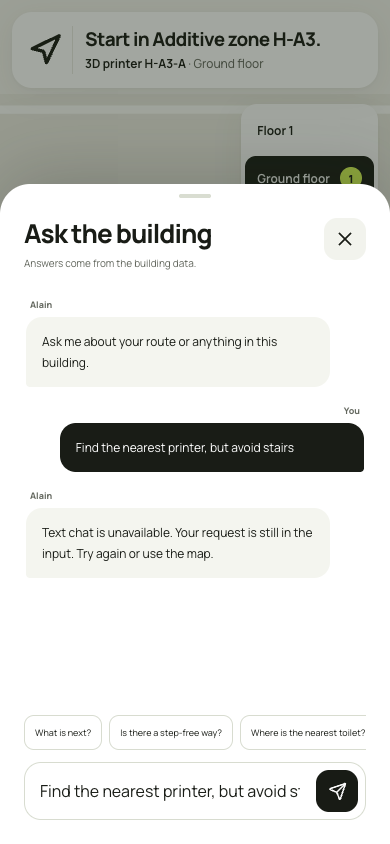
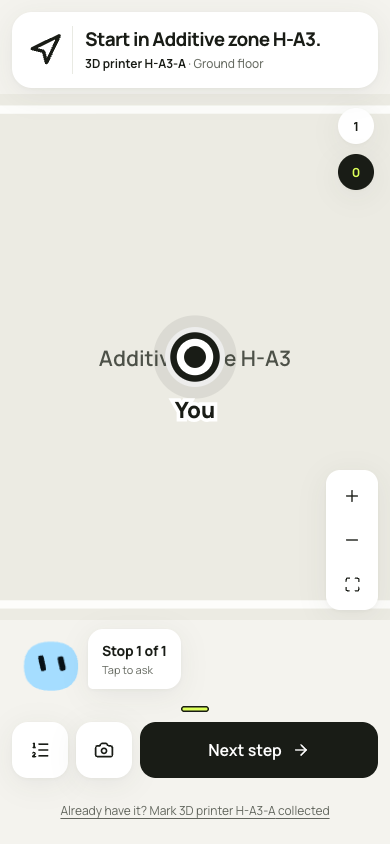
agent: align canonical contract and integration evidence

diff --git a/server/app.py b/server/app.py
@@ -94,7 +94,7 @@ def create_app(settings: Settings | None = None) -> FastAPI:
             await task
         await application.state.hub.close()
 
-    application = FastAPI(title="Talk to Your Building", version="C9", lifespan=lifespan)
+    application = FastAPI(title="Talk to Your Building", version="C10", lifespan=lifespan)
     application.state.settings = settings
     application.state.catalog = catalog
     application.state.store = StateStore(settings.state_dir,

diff --git a/master prompt/CONTRACTS.md b/master prompt/CONTRACTS.md
@@ -2,7 +2,7 @@
 
 This file is the single canonical place for shared interfaces. Builder prompts link here and do not copy the details. If a prompt and this file disagree, this file wins. To change a section, use the change-request protocol in [OWNERSHIP_AND_DEPENDENCIES.md](OWNERSHIP_AND_DEPENDENCIES.md#6-change-request-protocol). Only the section owner edits a section, and the owner appends one line to the [contract changelog](#16-contract-changelog).
 
-Contract version: **C9** (24 Oct 2026; reset-safe HTTP building-state identity; C2–C8 definitions preserved). Section owners:
+Contract version: **C10** (25 Oct 2026; user-approved common LLM agent, guarded tool transport and submission mode; C2–C9 platform behavior preserved). Section owners:
 
 | § | Section | Owner | Main consumers |
 |---|---|---|---|
@@ -69,7 +69,7 @@ Contract version: **C9** (24 Oct 2026; reset-safe HTTP building-state identity; 
 - `step_free` drops every stair connector and every opening with `step_free: false` (kit rule). Lifts stay.
 - `min_door_width_m` drops every opening narrower than the value (an opening exactly as wide passes).
 - `closed` lists connector, opening or space IDs; they cannot be used at all. Session/building closures are merged with request closures.
-- `no_transit_room_types` is implemented in core but **not used by any demo or benchmark path** (forklift and production-bay semantics are unconfirmed; see the decision register D-19).
+- `no_transit_room_types` prevents routes through the listed room types. A restricted room can still be the start or destination of a route leg. Shared agent queries and supplied benchmark constraints preserve this rule; they do not globally exempt a room type. Forklift-specific semantics remain unconfirmed (D-19).
 - **A wheelchair profile never silently becomes a stairs route.** If no step-free route exists, the result is `reachable: false` with a reason. The UI and agent say so and may offer, as a separate explicit option, the route with stairs.
 
 ## 4. Core Python API
@@ -81,7 +81,8 @@ from core.building import Building, load_building          # Building wraps star
 b = load_building(Path("data/dev/proc-factory-dev-003"))   # or load_building(dict); b.id, b.content_hash, b.version (0)
 
 from core.spatial import solve                             # benchmark solvers, ported from the sibling core (D-03)
-solve(b, kind: str, inputs: dict) -> dict                  # kinds: the 9 benchmark kinds plus locate, count, route, route_step_free, route_with_closure, tour
+solve(b, kind: str, inputs: dict, *, constraints: dict | None = None) -> dict
+                                                           # kinds: the 9 benchmark kinds plus locate, count, route, route_step_free, route_with_closure, tour
                                                            # inputs use exactly the field names of the kit `inputs` (README §4, train/dev files)
 
 from core.resolve import resolve
@@ -236,7 +237,10 @@ FastAPI service, one process (owner Manuel's codex). All JSON. `/api`, `/ws` and
 | `POST /api/buildings` | `building.json` body (admin) | `{"building_id", "validation": <validate_building report>}`; 422 if invalid |
 | `POST /api/buildings/{id}/plan-import` | multipart PNG/SVG + `floor_level` (admin, X5 only) | draft + validation, §6-style preview; nothing saved until confirmed |
 | `GET /api/buildings/{id}/events` | `?since=` | `[event]` |
-| `POST /api/tools/{name}` | `{"session_id", "args": {...}}` | ToolResponse §8 |
+| `POST /api/tools/{name}` | `{"session_id", "args": {...}}` | manual application controls; ToolResponse §8; not model transport |
+| `POST /api/agent/turns` | `{"session_id", "message"}` | `{"turn_id"}`; register a real user voice/typed turn |
+| `GET /api/agent/tools` | `?session_id=` | role-filtered tool definitions |
+| `POST /api/agent/tools/{name}` | `{"session_id", "turn_id", "args": {...}}` | ToolResponse §8 after current-turn and confirmation checks |
 | `POST /api/sessions` | `{"building_id", "device": "desk|phone", "role": "navigator|admin", "profile": "walk"}` | session §10 |
 | `GET /api/sessions/{id}` / `PATCH /api/sessions/{id}` | position, profile, active tour | session |
 | `POST /api/tours` | `{"session_id", "start"?, "items": ["asset or space ids"], "keep_order": false, "end": null}` | TourResult with `tour_id` |
@@ -247,7 +251,7 @@ FastAPI service, one process (owner Manuel's codex). All JSON. `/api`, `/ws` and
 | `POST /api/buildings/{id}/markers` | `{"markers": [{"space_id", "point", "heading_deg", "label"}]}` (admin) | `[marker]` |
 | `GET /api/buildings/{id}/markers/sheet` | – | printable HTML with QR codes (URL form §10) |
 | `GET /api/voice/token` | `?agent=navigator|admin` | `{"token", "agent_id"}`; 503 `voice_unavailable` when no key; the API key never leaves the server |
-| `POST /api/chat` | `{"session_id", "message"}` | `{"reply", "tool_calls": [ToolResponse], "display": {...}}` |
+| `POST /api/chat` | `{"session_id", "message"}` | `{"reply", "tool_calls": [ToolResponse], "display", "status", "stop_reason", "usage", "cost_usd", "sources"}` |
 | `POST /api/demo/reset` | `{"building_id"}` (admin; demo mode) | archives the building's event log, restarts it at version 0 and broadcasts `building_reset`; never available outside demo mode |
 
 **Admin authentication (C8, CR-C-2):** `POST /api/sessions` with `role: "admin"` requires `X-Admin-Token` matching the private server `TYB_ADMIN_TOKEN`; comparison is constant-time. Missing/wrong codes return 403 `forbidden`. Navigator creation requires no code. With no configured code, admin creation is denied unless both `TYB_DEMO_MODE=true` and `TYB_ALLOW_UNAUTHENTICATED_DEMO_ADMIN=true` explicitly enable an isolated no-code local demo; a configured code is mandatory even in demo mode. The database stores a private session-bound HMAC authority proof, never the code. Legacy role-only admin sessions and proofs from a previous code are rejected; same-code restarts retain authority. Public session payloads omit authority data. Public event feeds, tour payloads, tool displays/results and WebSocket broadcasts omit session bearer IDs; internal storage keeps ownership for authorization and undo. The admin UI keeps its code and session ID in `sessionStorage`, sends the code only on admin-session creation, and asks again after revoked/expired authority. It never embeds it in a URL, build variable or source.
@@ -268,7 +272,9 @@ Types for TypeScript are generated from FastAPI's OpenAPI (`server/openapi.json`
 
 ## 8. Tool API and voice client tools
 
-**One tool registry** (`server/tools.py`, owner Manuel's codex) backs the HTTP tool endpoint, the text chat agent and the ElevenLabs client tools. Names and parameters below are frozen at C1. The ten tools from `docs/elevenlabs-agent-config.md` are unchanged; `spatial_query` is an addition.
+One tool registry (`server/tools.py`) backs manual controls and the text/voice agent tools. C10 has 17 tools for admin sessions and 11 for navigator sessions. Generated `server/agent-tools.json` is the complete list of names, argument schemas and roles. Regenerate it with `python -m server.export_openapi`; then run `bun run gen:api` in `web/app`. The human-owned ElevenLabs configuration describes an older hosted setup. Local changes do not deploy it.
+
+Text chat and benchmark submission use `agent.core.BuildingAgent`, the same prompt recipes, configured model, platform registry, execution policy and `AgentLoop`. The default is Sonnet with at most 24 model requests, 128 attempted tool calls and 90 seconds. `TYB_AGENT_*` settings can change these limits. Voice keeps the hosted ElevenLabs model loop and shares server tool execution. See `agent/README.md` for configuration and limits.
 
 **ToolResponse:**
 
@@ -279,7 +285,8 @@ Types for TypeScript are generated from FastAPI's OpenAPI (`server/openapi.json`
   "result": {"tour_id": "k3j9q2m7xa", "order": ["s1", "s2"], "length_m": 112.6},
   "speech": "Three parts in two stops, about 113 metres. First the tool crib, then the store upstairs.",
   "display": {"kind": "tour", "tour_id": "k3j9q2m7xa"},
-  "trace": [{"fn": "resolve", "args": {"text": "torque wrench"}, "ms": 2}, {"fn": "plan_tour", "args": {"stops": 2}, "ms": 41}]
+  "trace": [],
+  "model_result": {"ok": true, "tool": "plan_tour", "request_id": "req_ab12cd34ef56", "result": {"tour_id": "k3j9q2m7xa", "length_m": 112.6}}
 }
 ```
 
@@ -288,10 +295,16 @@ Failure: `{"ok": false, "tool", "request_id", "building_version", "error": {"cod
 | Agent | Tool | Arguments | Behaviour |
 |---|---|---|---|
 | navigator | `find` | `query` (string, required) | resolve over assets and spaces; unique → highlight and `speech` with place; ambiguous → candidates for one clarifying question; none → says so |
-| navigator | `plan_tour` | `items` (comma-separated string, required), `keep_order` (bool), `step_free` (bool) | resolves each item (ambiguous item → error with candidates, nothing planned), plans from the session position, creates a tour, returns `tour_id` |
+| navigator | `building_info` | none | floors, types, counts, position and current constraints |
+| navigator | `search_entities` | `kind`, `query`, `type`, `floor_id`, `space_id`, `limit`, `cursor` | paged discovery; default 25, maximum 100 results; cursor is bound to filters and building state |
+| navigator | `get_entities` | `ids` (1–100 stable IDs) | details in request order; unknown IDs fail explicitly |
+| navigator | `compare_routes` | `destination_ids`, optional `start`, `step_free`, `min_door_width_m`, `closed` | rank actual reachable routes and report unreachable candidates; no navigation changes |
+| navigator | `query_route` | `destination`, optional `start`, `step_free`, `min_door_width_m`, `closed` | pure route calculation; explicit start overrides session position; unreachable is a normal result |
+| navigator | `query_tour` | `items`, optional `start`, `end`, `keep_order`, `step_free`, `min_door_width_m`, `closed` | pure multi-stop calculation; reports partial or blocked stops; no active tour is saved |
+| navigator | `plan_tour` | `items` (1–100 stable IDs), `keep_order`, `step_free`, `min_door_width_m`, `end` | validates IDs, plans from session position and saves navigation; comma-separated input is accepted only for older hosted configurations |
 | navigator | `route` | `destination` (required), `step_free`, `min_door_width_m` | route from session position with session profile merged |
 | navigator | `next_step` | – | next maneuver of the active tour; at a collection stop asks to confirm collection; on the final leg returns stop_id=end, complete=false, then at_end=true for explicit arrival confirmation (§7) |
-| navigator | `spatial_query` | `kind` (one of the nine benchmark kinds, required), `target`, `second_target`, `floor`, `room_type`, `asset_type`, `direction`, `min_width_m` (strings/number as applicable) | resolves names to IDs and calls `core.spatial.solve`; answers "what is above office 0.29", "largest meeting room on floor 1", "how many rooms share a wall with …"; **added by the master agent (not in `docs/elevenlabs-agent-config.md`)**: required for the text chat, optional for the ElevenLabs navigator (H4) |
+| navigator | `spatial_query` | `kind` (nine spatial kinds plus `count`, `locate`), `target`, `second_target`, `floor`, `room_type`, `asset_type`, `direction`, `min_width_m`, `step_free`, `closed` | validates IDs/types and computes facts through `core.spatial.solve`, preserving effective constraints |
 | admin | `propose_edit` | `action`, `target` (required), `second_target`, `value` | §6 step 1–2 |
 | admin | `commit_edit` | `proposal_id` (required) | §6 step 3; client adds `op_id` |
 | admin | `undo` | – | §6 step 4 |
@@ -299,12 +312,16 @@ Failure: `{"ok": false, "tool", "request_id", "building_version", "error": {"cod
 | admin | `set_scale` | `reference`, `length_m` | X5 import only; otherwise `not_available` |
 | admin | `generate_markers` | – | creates markers for entrances and doors of the demo route; returns sheet URL |
 
-- ElevenLabs tools are type **Client** with **"Wait for response"** enabled (verified in the ElevenLabs React docs on 24 Oct 2026: without blocking, the agent assumes success). The browser handler calls `POST /api/tools/{name}`, updates the view from `display`, and returns `JSON.stringify({ok, speech, result})` truncated to ≤ 1,500 characters.
+- Model tools use `AgentExecution`; manual controls retain `/api/tools/{name}` and their existing permission/idempotency checks. The manual endpoint does not enforce conversation confirmation and must not be exposed as model transport. Agent calls require the session's current `turn_id`. A new text or registered voice turn supersedes old turns. `commit_edit` requires the pending preview to be confirmed in a later real user message. Tool arguments, agent transcripts and context updates cannot confirm it.
+- ElevenLabs tools are Client tools with "Wait for response" enabled. Only `source=user` transcripts or accepted typed user input register voice turns. Tools wait for registration; a failure cannot reuse an old turn. The browser updates the view from `display` and returns complete compact `model_result`, speech and errors within 49,152 UTF-8 bytes. Larger results return `result_too_large`, never truncated rows or candidates. Full geometry stays with the application. `trace` stays empty because calculation explanations are disabled.
+- Desk-only `update_selection` and `focus_floor` validate IDs in the loaded building and require the same current local turn/connection guards as backend callbacks. They do not add server permissions. Retired or superseded callbacks cannot update a replacement view.
+- Chat status is `completed`, `incomplete`, `unavailable` or `superseded`. Failure retains the question for retry; no local answer fallback runs. SQLite stores bounded conversation history and persistent budget reservations. The text budget does not cover ElevenLabs billing. Hosted tool definitions, prompts and live microphone behavior need separate deployment/acceptance checks.
+- Pure queries combine building, session and temporary closures. They cannot weaken saved step-free, door-width or transit restrictions. Missing starts and unknown IDs fail explicitly. Query calculation metadata records validated inputs for submission result selection; it is not a UI explanation trace.
 - **Mobility persistence (C4, CR-L-1):** a valid, resolved `route`/`plan_tour` request with affirmative `step_free: true` persists step-free mobility in its session (a `walk` session becomes `wheelchair`; existing `wheelchair|pram|trolley` remains). A route's `min_door_width_m` persists as well. Required position and entity validation precede session mutation; a valid `no_route` still preserves the user's stated mobility need. `step_free: false` cannot silently downgrade a persisted non-walk profile; an explicit profile change belongs to the session UI/PATCH API.
 - **Step-free spatial closures (C5, CR-L-2):** for `spatial_query(kind="step_free_reachable_count")`, existing optional `second_target` may name an additional closed connector/opening/space. Validate and pass the union of current building/session closures and that optional target as a list to the core's §4-compatible live interface. An empty list means no closures; it returns the actual step-free reachable count without inventing a required closure. The original single-string benchmark input remains supported unchanged.
 - **Find precedence (C5, CR-L-3):** compare resolution stages across assets and spaces before comparing scores: exact ID, then exact name/ref/rendered label, then normalized, then fuzzy. A fuzzy score of 1.0 cannot outrank an exact item name at 1.0; equal best-stage candidates remain ambiguous.
 
-- Position, building and profile come from the session, never from the conversation.
+- Building, role and saved profile come from the session. Pure route/tour queries can supply an explicit validated start without changing the saved position.
 - Context the app pushes with `sendContextualUpdate` (no reply is triggered), exact phrasing:
   - `Position: <space name> (<floor name>), source <marker|manual|tour start>.`
   - `Tour <tour_id> loaded: <n> stops, next <label>.`
@@ -352,8 +369,9 @@ Failure: `{"ok": false, "tool", "request_id", "building_version", "error": {"cod
 Owner Lenard's codex.
 
 - **Official evaluator entry point (unchanged contract):** `bench.agent:answer(building_directory: Path, question_text: str) -> str`, used as `uv run python -m benchmark.evaluate data/dev --agent bench.agent:answer`.
-- **Run order inside `answer`:** (1) deterministic template parser → typed inputs → `core.spatial.solve` → serializer; (2) if parsing fails with "unsupported wording" or the parser finds an ambiguity, and `ANTHROPIC_API_KEY` is available, the LLM fallback ([MASTER_PLAN.md §4.2](MASTER_PLAN.md#42-benchmark-and-product-agent-harness)) produces validated inputs through tools; (3) otherwise an honest reply **without** an `Answer:` line. Never a placeholder answer.
-- **Batch runner:** `uv run python -m bench.run <split_dir> --name <run> [--csv out.csv] [--workers 4] [--mode hybrid|template|llm]` with per-question checkpoints keyed by `(question_id, sha of question text, building content_hash, git commit, profile, model, prompt_version)`.
+- **Default `answer` path:** give the original question to the common `BuildingAgent` in a fresh isolated navigator session, with supplied constraints set before inference. It uses the same model, limits, prompt and building tools as chat. There is no parser-first step, Haiku/Sonnet escalation or hidden template fallback. Credentials and an explicit benchmark allocation are required; otherwise return an honest unanswered reply without an `Answer:` line and without a provider call.
+- **Submission:** `submit_answer(request_id)` selects a successful calculation observed in this run. It accepts no answer value or calculation inputs. The serializer formats the stored tool result without another solver call. Model prose cannot submit an answer. Inference never reads gold labels or question `inputs`.
+- **Batch runner:** `uv run python -m bench.run <split_dir> --name <run> [--csv out.csv] [--workers 4] [--mode llm|template] [--max-cost <approved USD>]`. Default mode is `llm`; `hybrid` is rejected. `template` is an explicit offline baseline, including offline CI rehearsals. Checkpoints include question/building identity, source hash, profile, actual configured model/options and prompt versions. Reports retain usage/cost on failure. Scoring is separate from inference.
 - **Sunday adapter (provisional until the organizers publish the schema):** `uv run python -m bench.run_benchmark <building_dir> <questions.json> <answers.json> [--csv answers.csv]`.
   - Input accepted: a JSON list or `{"questions": [...]}`; each entry has `id` and `text` (or `question`), optional `kind`, optional `constraints` (`step_free`, `closed`, `min_door_width_m`). Also accepts JSONL and the kit CSV `question_id,building_id,kind,question`.
   - Output `answers.json`: `{"profile": "kit_1_1_0", "commit": "<sha>", "building_id", "content_hash", "answers": [{"id", "kind", "answer_text": "<full reply ending with the Answer line>", "value": <number|null>, "item_id": <asset id|null>, "space_id": <space id|null>, "route": null | {"reachable": true, "space_path": [...], "node_path": [...], "element_path": [...], "length_m": 57.41}, "error": null}]}`. Unreachable: `"route": {"reachable": false, "space_path": [], "node_path": [], "element_path": [], "length_m": null}`. Tours: `route.legs` holds one entry per leg plus the summed `length_m`.
@@ -420,3 +438,4 @@ HTTP transport errors use FastAPI's default `{"detail": ...}` plus `{"error": {"
 
 - **C8 — 24 Oct 2026, Hagen release coordination, CR-C-2:** §6/§7/§10 require authenticated admin-session creation, private session-bound authority and legacy/rotated-code revocation; UI credentials use sessionStorage. C7 final-destination and C6 explicit mobility semantics preserved. Human explicitly authorized the coordinated fixes, main merge and deployment.
 - **C9 — 24 Oct 2026, Manuel's codex, CR-M-8/reset follow-up:** §7 adds opaque building_state_id to live HTTP snapshots and server tours so reset/reused versions cannot validate stale directions. §9 clarifies reset/cold-load/reconnect freshness, including blocked tours and final legs. Old stored tours refresh lazily; core/kit schemas, eleven tools and request bodies are unchanged.
+- **C10 — 25 Oct 2026, Lenard's codex, user-approved agent rebuild/integration:** §3/§4 preserve route-leg endpoint exceptions and shared spatial constraints; §7/§8 add guarded turns, role-filtered discovery and pure query tools, complete bounded observations, durable history/budget and later-user confirmation. §12 makes the common LLM core the default and retains only an explicit template baseline. Manual controls and hosted voice deployment remain separate. C9 reset-safe state identity is preserved.

diff --git a/master prompt/Lenard's codex/STATUS.md b/master prompt/Lenard's codex/STATUS.md
@@ -134,7 +134,7 @@ The full repository gate remains blocked by the existing AR assertion. Current c
 
 The user approved integrating latest main, fixing the existing AR assertion, running combined checks and independent reviews, then committing, pushing and opening a real pull request. Merge and deployment are excluded.
 
-- Rebased the unpublished refactor onto main `96cc8cd`. Integration preserves team entry, Colab initialization, the focused/isometric desktop, parts panel and the newer conversational voice UI. Calculation explainability remains removed. Agent calculation metadata remains for submission result selection.
+- Rebased the unpublished refactor onto main `96cc8cd`, then onto the newer `f536cb6` floor-control update. Integration preserves team entry, Colab initialization, the focused/isometric desktop, parts panel and the newer conversational voice UI. Calculation explainability remains removed. Agent calculation metadata remains for submission result selection.
 - The combined voice bridge retains typed messages, real transcripts, orb/mute/end/retry and browser desk actions. It adds registered server turns and guards for server and browser tools. The AR depth assertion now treats signed zero as the same coordinate; geometry code is unchanged.
 - Regenerated OpenAPI, tool definitions and TypeScript contracts after combining the server. The offline CI Sunday rehearsal now selects `--mode template` explicitly. The default benchmark remains the LLM agent.
 - First combined Python run: 826 passed; only the still-conflicted navigator prompt failed its length check. After prompt resolution, `tests/agent/test_prompts_budget.py`: 17 passed. Combined frontend run: 312 passed; production build passed with the existing Three.js chunk warning.
@@ -143,4 +143,8 @@ The user approved integrating latest main, fixing the existing AR assertion, run
 - Browser checks use real local API and isolated state with empty provider keys. Desktop 1280x800 and phone 390x844 show the actual unavailable-service error and retain the request for retry. Phone retry makes another HTTP request. No horizontal overflow was found. Evidence is in `docs/agent-ui/` for upload with the PR.
 - Native preview snapshot failed twice with a 15000ms timeout. Playwright used existing cached Chromium; no installed app was replaced. Docker is not running locally; the production image build/smoke must run in CI.
 
-Final repository gate, fixed-tree HTTP rehearsal and independent review remain in progress. No paid calls, live account edits, merge or deployment.
+- Final `scripts/check.sh`: passed, exit 0. Python 827 passed in 57.37 seconds, oracle 369/369, core text 138/138, frontend 312 passed, production build and device gate passed. Log: `/tmp/tyb-integrated-check.log`.
+- Fixed-tree HTTP/WebSocket/restart rehearsal: PASS, source unchanged, isolated process stopped and isolated state removed. Evidence: `/tmp/tyb-integrated-live-final.json`. No provider calls or deployments. After the latest main update, frontend 312 passed and build passed again; no agent/backend source changed in that main update. Screenshots were refreshed.
+- Independent Standards review found stale canonical contract text for the tool endpoint, truncation and parser-first benchmark. Updated `CONTRACTS.md` and its changelog to C10, synchronized FastAPI/OpenAPI metadata, and regenerated clients. `tests/server/test_health.py tests/server/test_live.py`: 22 passed. Spec review and the contract follow-up review remain in progress.
+
+No paid calls, live account edits, merge or deployment. Production Docker checks remain for CI because the local daemon is unavailable.

diff --git a/server/README.md b/server/README.md
@@ -1,4 +1,4 @@
-# Platform integration (C9)
+# Platform integration (C10)
 
 Run `uv sync`, copy `.env.example` to `.env`, then run:
 
